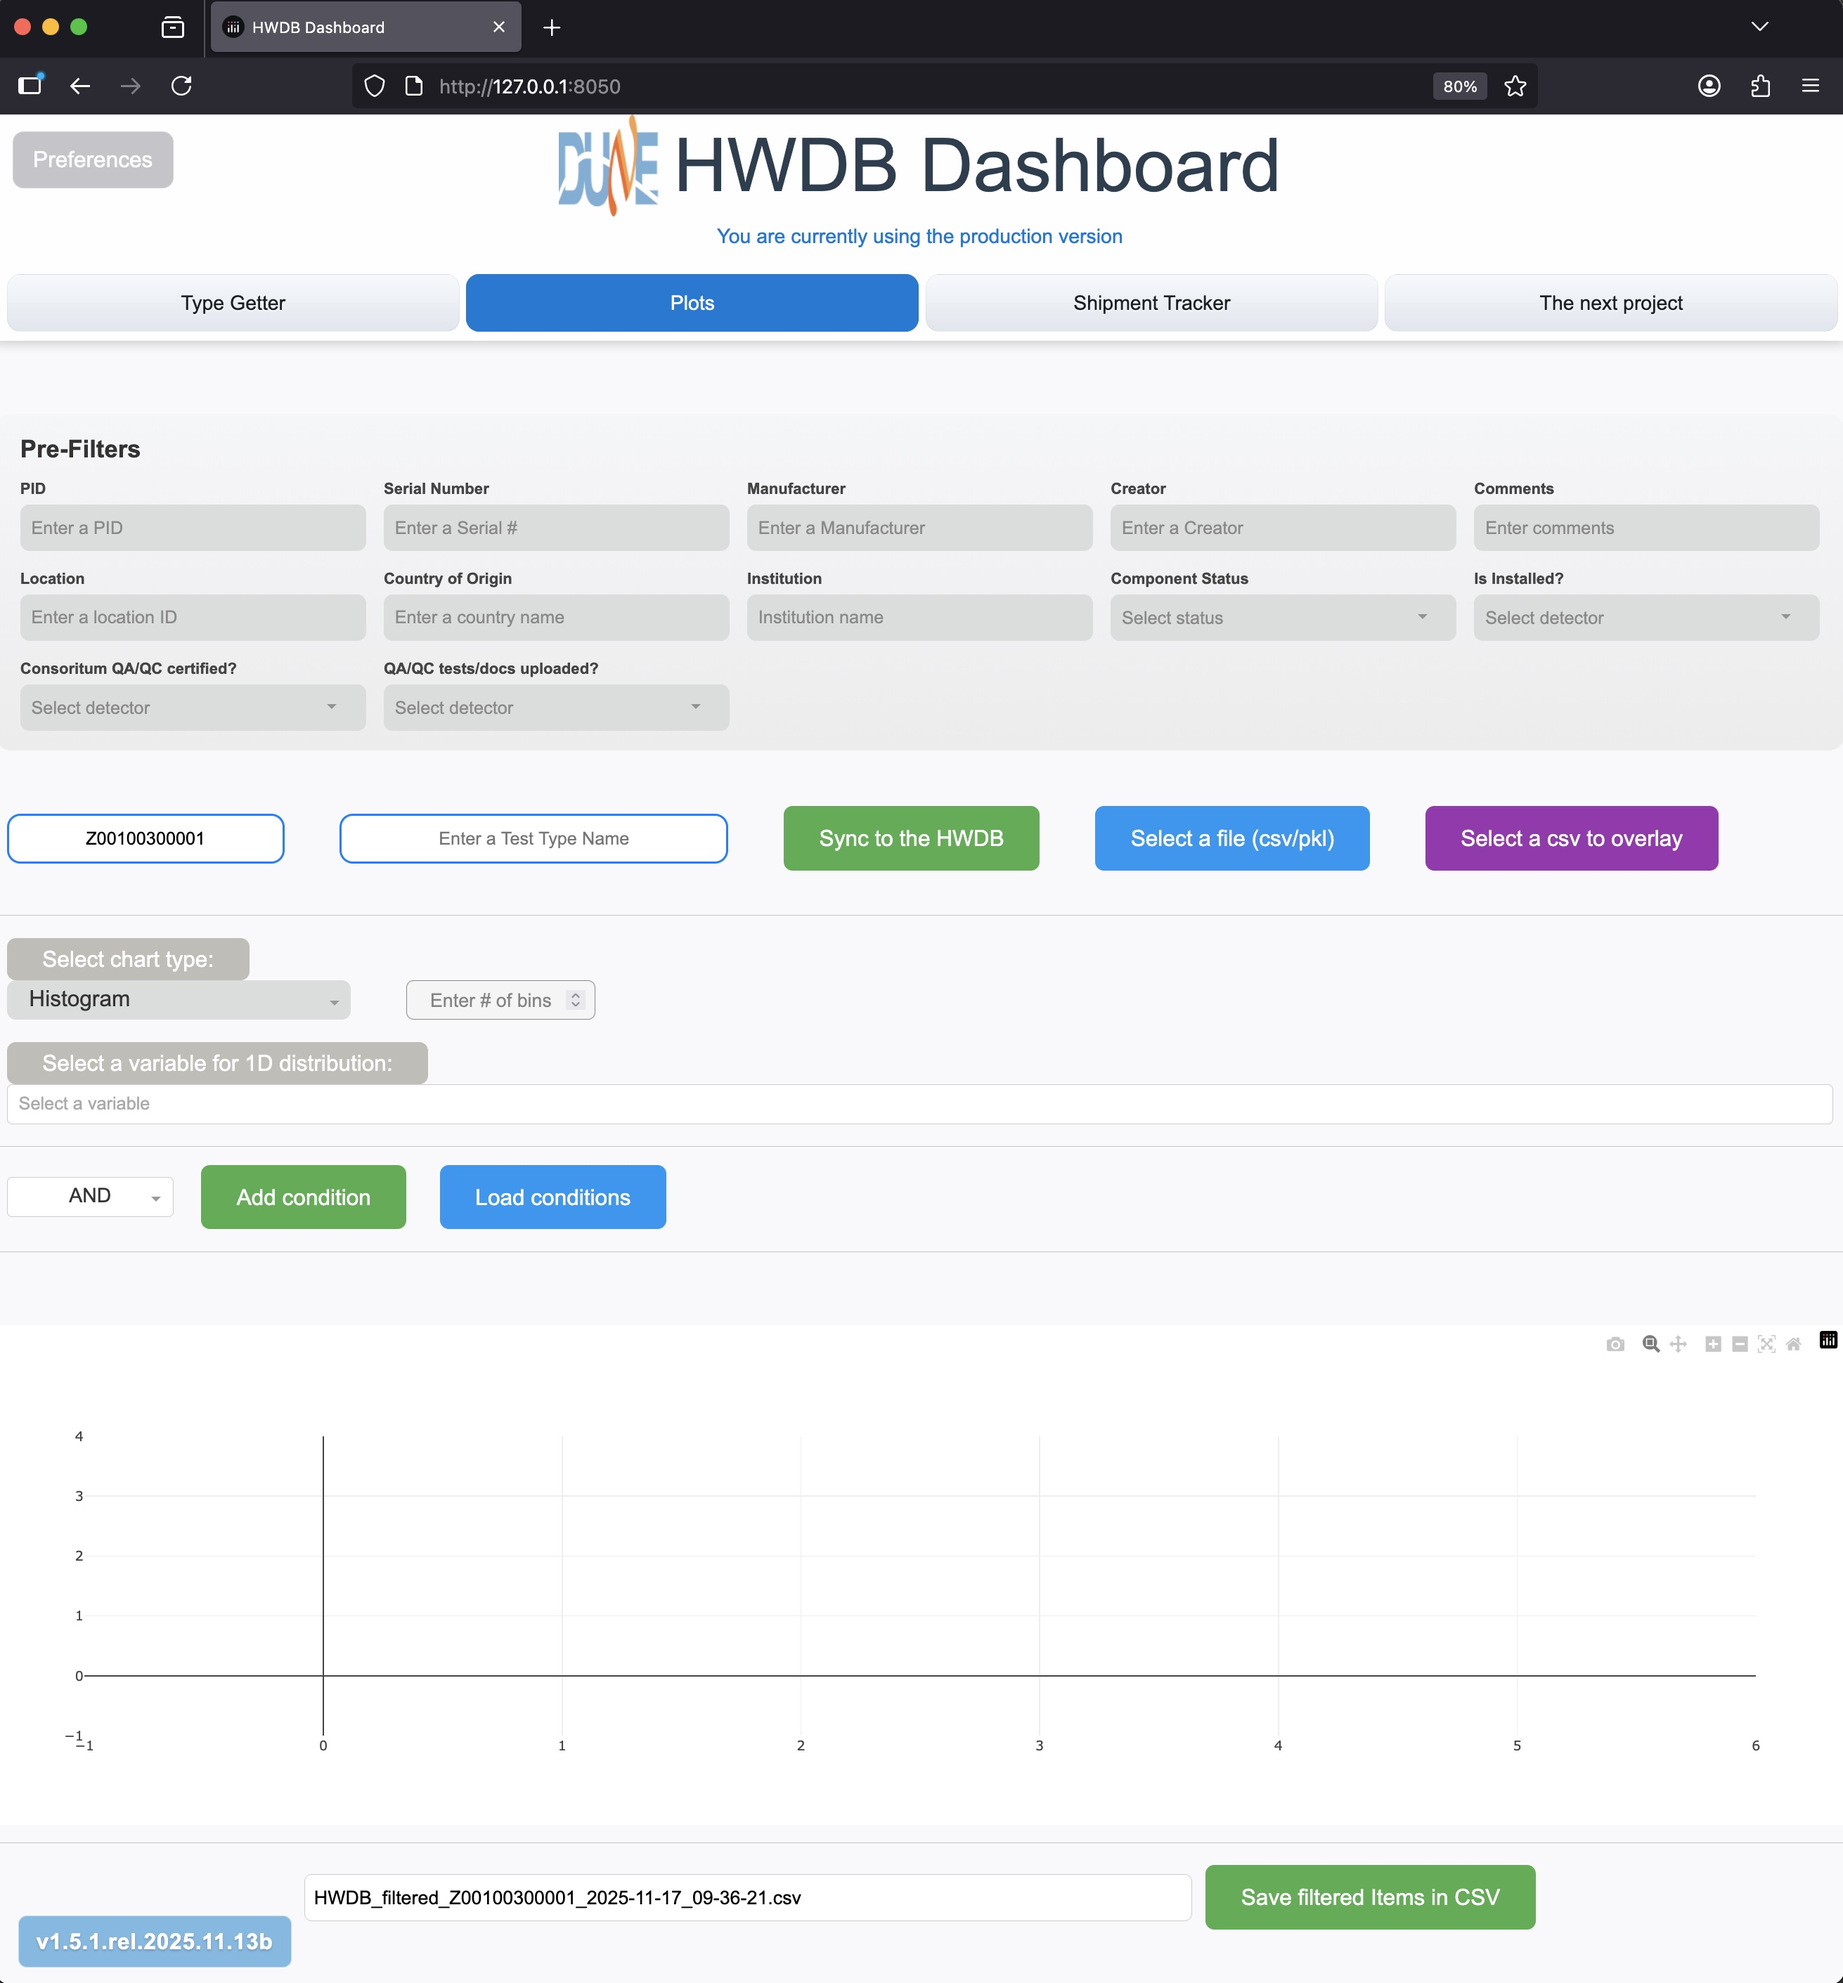
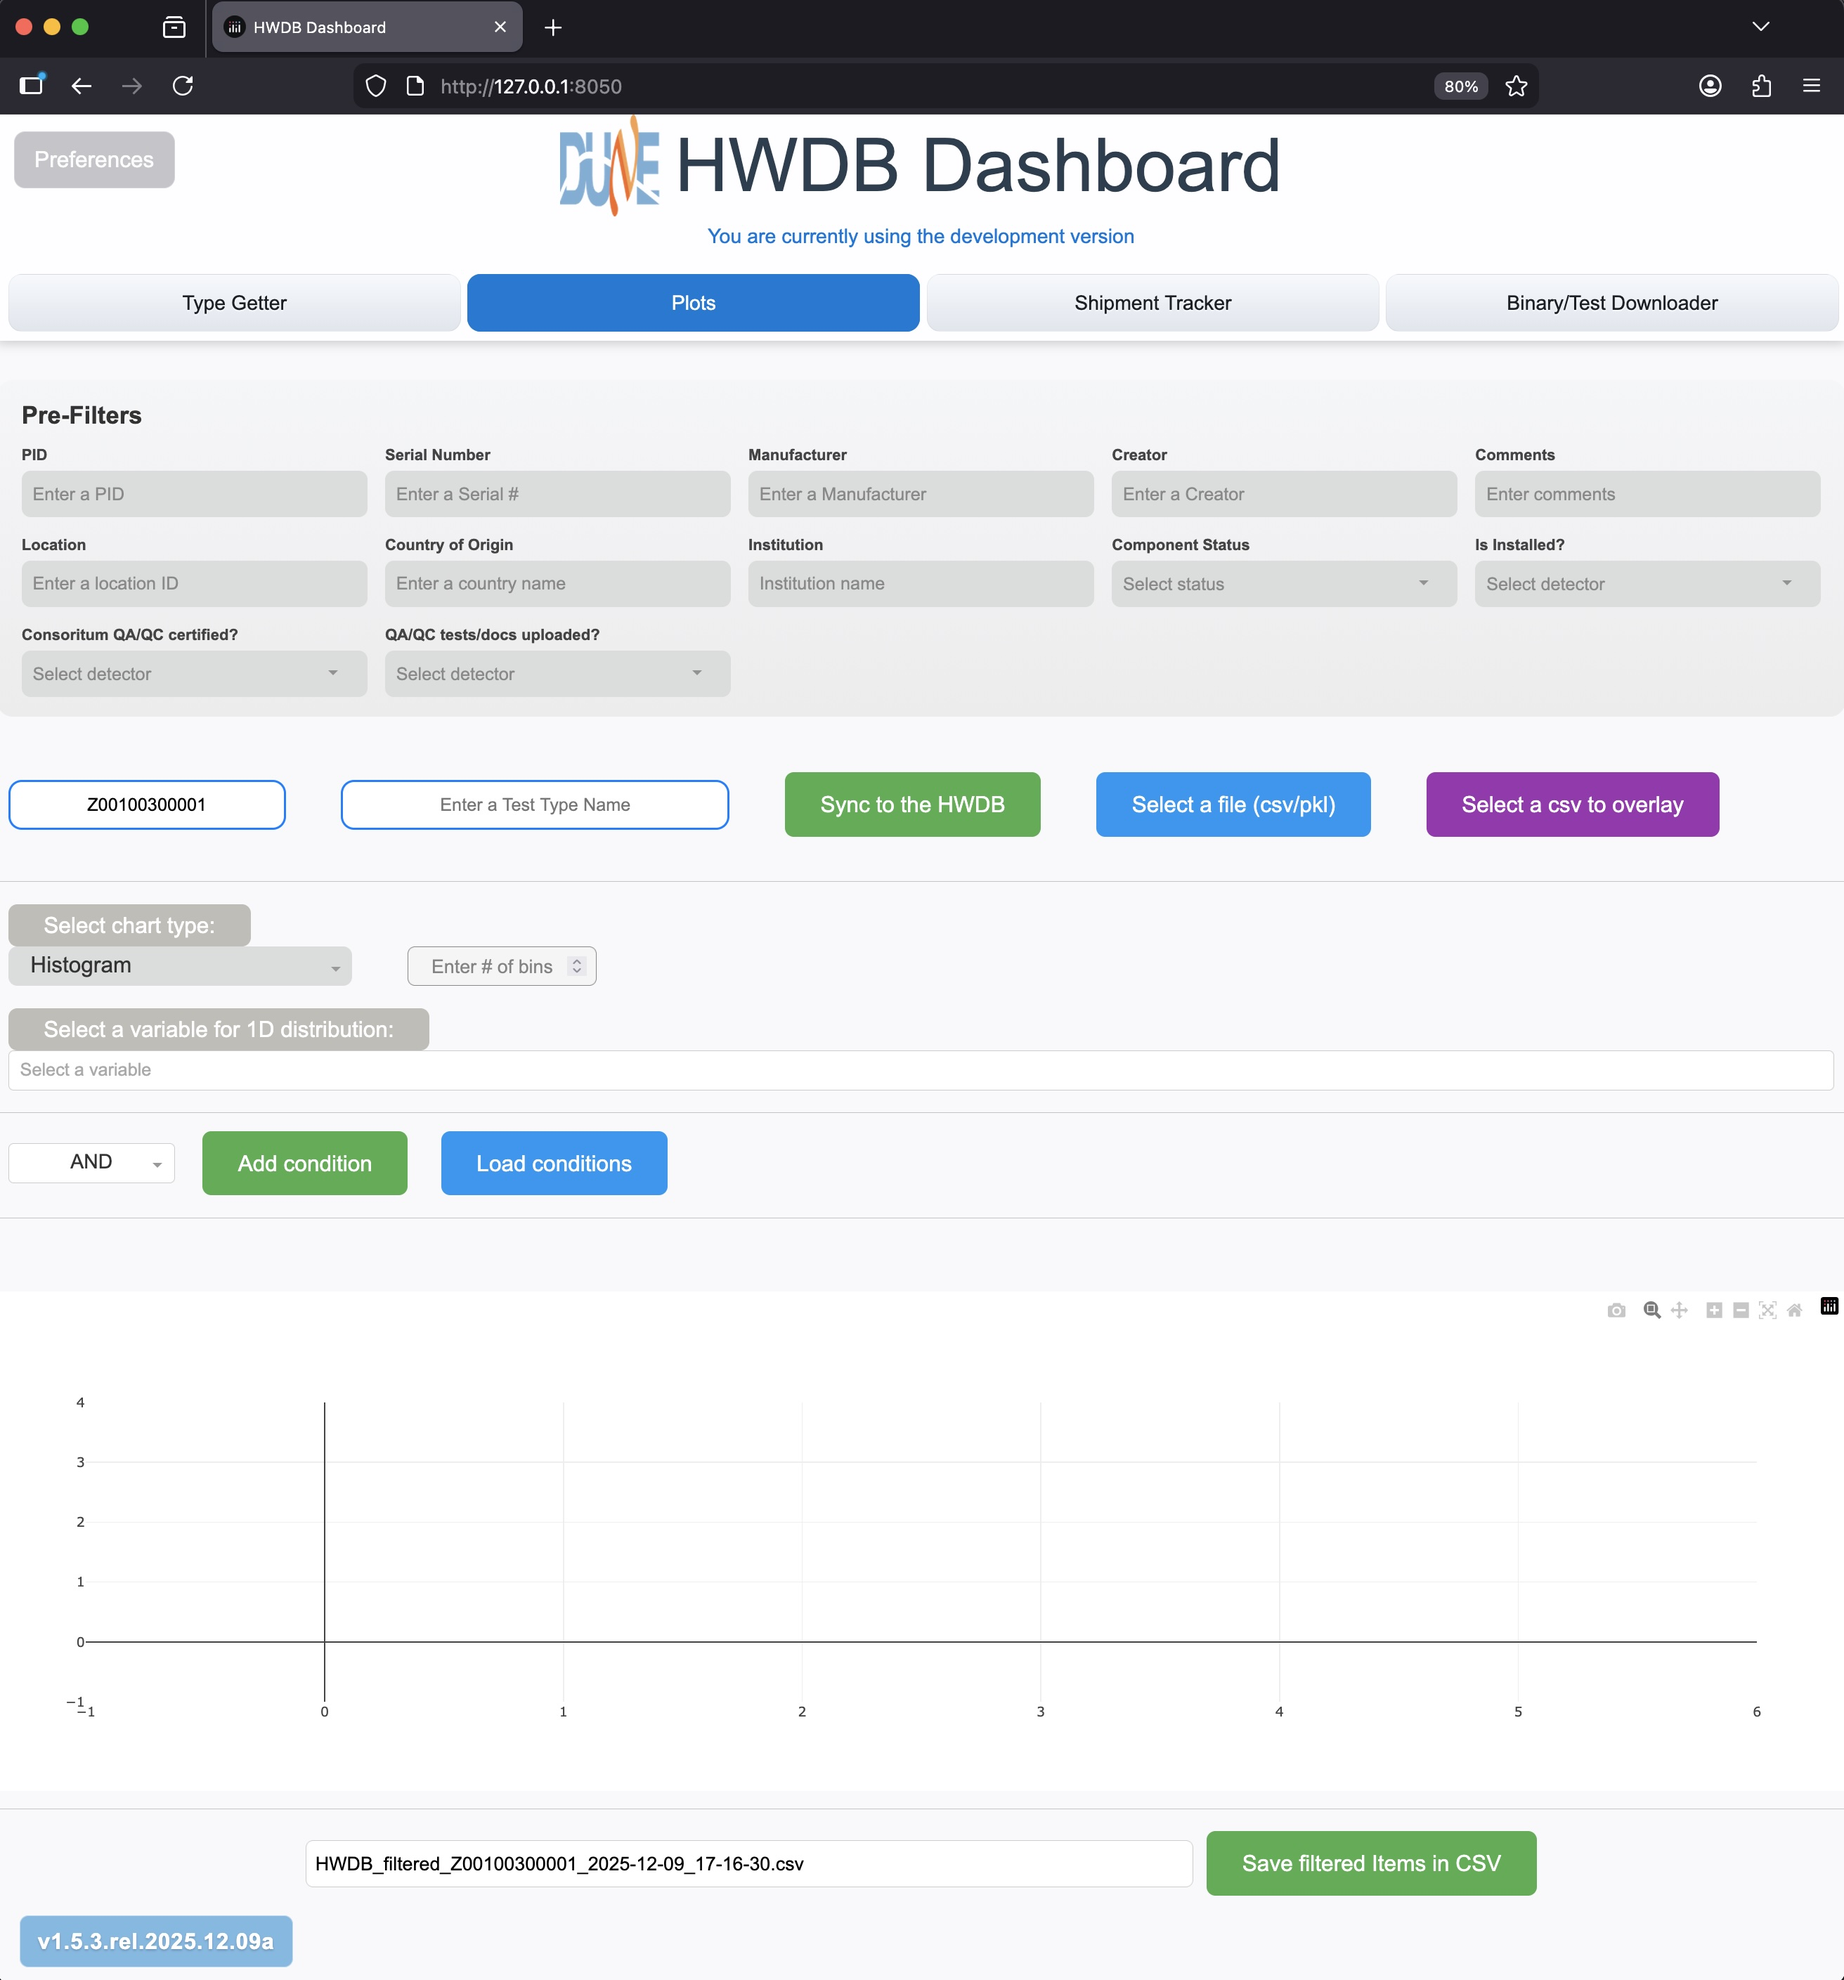
Updated Episode 5 (REST API); GET/PACTH on the new status flags. Updated the Shipping Handoff process page. Updated the Dashboard page to describe the new tab, "Downloader".

diff --git a/_extras/dashboard.md b/_extras/dashboard.md
@@ -43,10 +43,26 @@ keypoints:
 >|-------------------------------------+------------------|
 >| [Shipment Tracker tab](#shipment-tracker-tab) | See the all statuses of your shipments on a single pane |
 >|-------------------------------------+------------------|
+>| [Binary/Test Downloader tab](#binarytest-downloader-tab) | Download test results or photos or csv files of many PIDs at once |
+>|-------------------------------------+------------------|
 {: .checklist}
 
 <br/>
 
+## What is this:
+
+It is an app, that is based on Python (Dash/Plotly) and provides UI to help download (not upload) activities
+from the DUNE HWDB. It is a part of [the Python HWDB Tools package]({{ page.root }}/07-Using-Python-Upload-Tool/index.html), available
+to all DUNE members.
+
+When launched, the following 4 tabs would be seen with the initial tab being Plots:
+
+- Plots: To plot and save variables stored in the HWDB for a given Component Type ID (and optionally a Test Type Name).
+- Type Getter: A simple UI that lets user to go through the PID hierarchy to find a Component Type ID user is interested in.
+- Shipment Tracker: Displays statuses of all shipping boxes for a given Component Type ID.
+- Binary/Test Downloader: Let user to download Test Data (in csv or JSON format) or Photos, documentations, csv files that correspond to multiple PIDs at once.
+
+For the rest of this page, we go through each of these four tabs and describe their basic functionalities and their usages.
 
 ## Requirement:
 
@@ -360,6 +376,64 @@ On the right, you see the following information:
 - **Pre-shipping**: Shows contents of the Pre-shipping checklist you fill out before shipping.
 - **Shipping**: Similarly shows contents of the Shipping checklist you fill out. This includes buttons to download your bill of lading, proforma invoice if international shipment, and other binaries that must be uploaded to the HWDB according to the [DUNE Shipping Procedure]({{ page.root }}/shippingprocedure/index.html).
 - **Info @ Warehouse**: This shows SKU, Pallet ID of your shipment at the SD Warehouse, along with its received date/time and result of visual inspection when it is received there.
+
+
+[back to top](#contents)
+
+<br/><br/> 
+
+## Binary/Test Downloader tab:
+
+When this is selected, a screen like the one shown below should be displayed.
+
+![downloader_test_intro](../fig/Dash/downloader_test_intro.jpg){: .image-with-shadow}{: width="100%"}
+
+User first needs to select whether to download test data, that are stored in **Test Log** under each PIDs,
+or **Binaries**, such as photos, documentations (pdf files), csv files (no Excel), that are stored
+either under a Component Type ID or individual PIDs.
+
+Let us describe how it works for the case of downloading Test Data first.
+
+### Downloading Test Data:
+
+Once selecting **Test Data** to download, user then needs to select in which format the downloaded data should be saved.
+The choice is either csv or JSON format.
+
+User then needs to provide a reference PID and a Test Type name. They will be used to determine the database schema
+that is employed for the stored data. So the PID and name must be the ones that hold the data you like to download.
+
+Once a reference PID and a Test Type name are entered, click **Sync to the HWDB**.
+You should be then seeing a diagram like the one below:
+
+![downloader_test_dbschema](../fig/Dash/downloader_test_dbschema.jpg){: .image-with-shadow}{: width="40%"}
+
+Select those leaves that you are interested in downloading and then click **Download Selected Data**.
+It will download the selected data of the selected Test Type name under **all PIDs** that correspond to the provided Component Type ID.
+
+Optionally one could provide a single PID (right above the  **Download Selected Data** button) to download data for that particular PID
+or a range of PIDs.
+
+Downloaded data will be saved as a single file in /\<your working directory>/\<the provided Component Type ID>/ with a file name, \<Component Type ID>\_\<Test Type name>\_Test\_\<time stamp>.\<csv or json>.
+
+<br/><br/> 
+
+### Downloading Binaries:
+
+When **Binaries** is selected to be downloaded, one should be seeing a screen as below:
+
+![downloader_binary_intro](../fig/Dash/downloader_binary_intro.jpg){: .image-with-shadow}{: width="60%"}
+
+User needs to provide either a Component Type ID or a PID.
+
+Recall that binaries (images, csv files... etc) can be stored in the HWDB under a particular Component Type ID or a PID (and even a Test Log, but the app doesn't download from Test Logs, yet).
+
+Once an ID is entered, click **Sync to the HWDB**.
+You should be then seeing a screen like the one shown below:
+
+![downloader_binary_list](../fig/Dash/downloader_binary_list.jpg){: .image-with-shadow}{: width="60%"}
+
+Select (or deselect) the ones you like and then click **Download**.
+All files will be downloaded into  /\<your working directory>/\<the provided Component Type ID>/\<images>/.
 
 
 [back to top](#contents)
